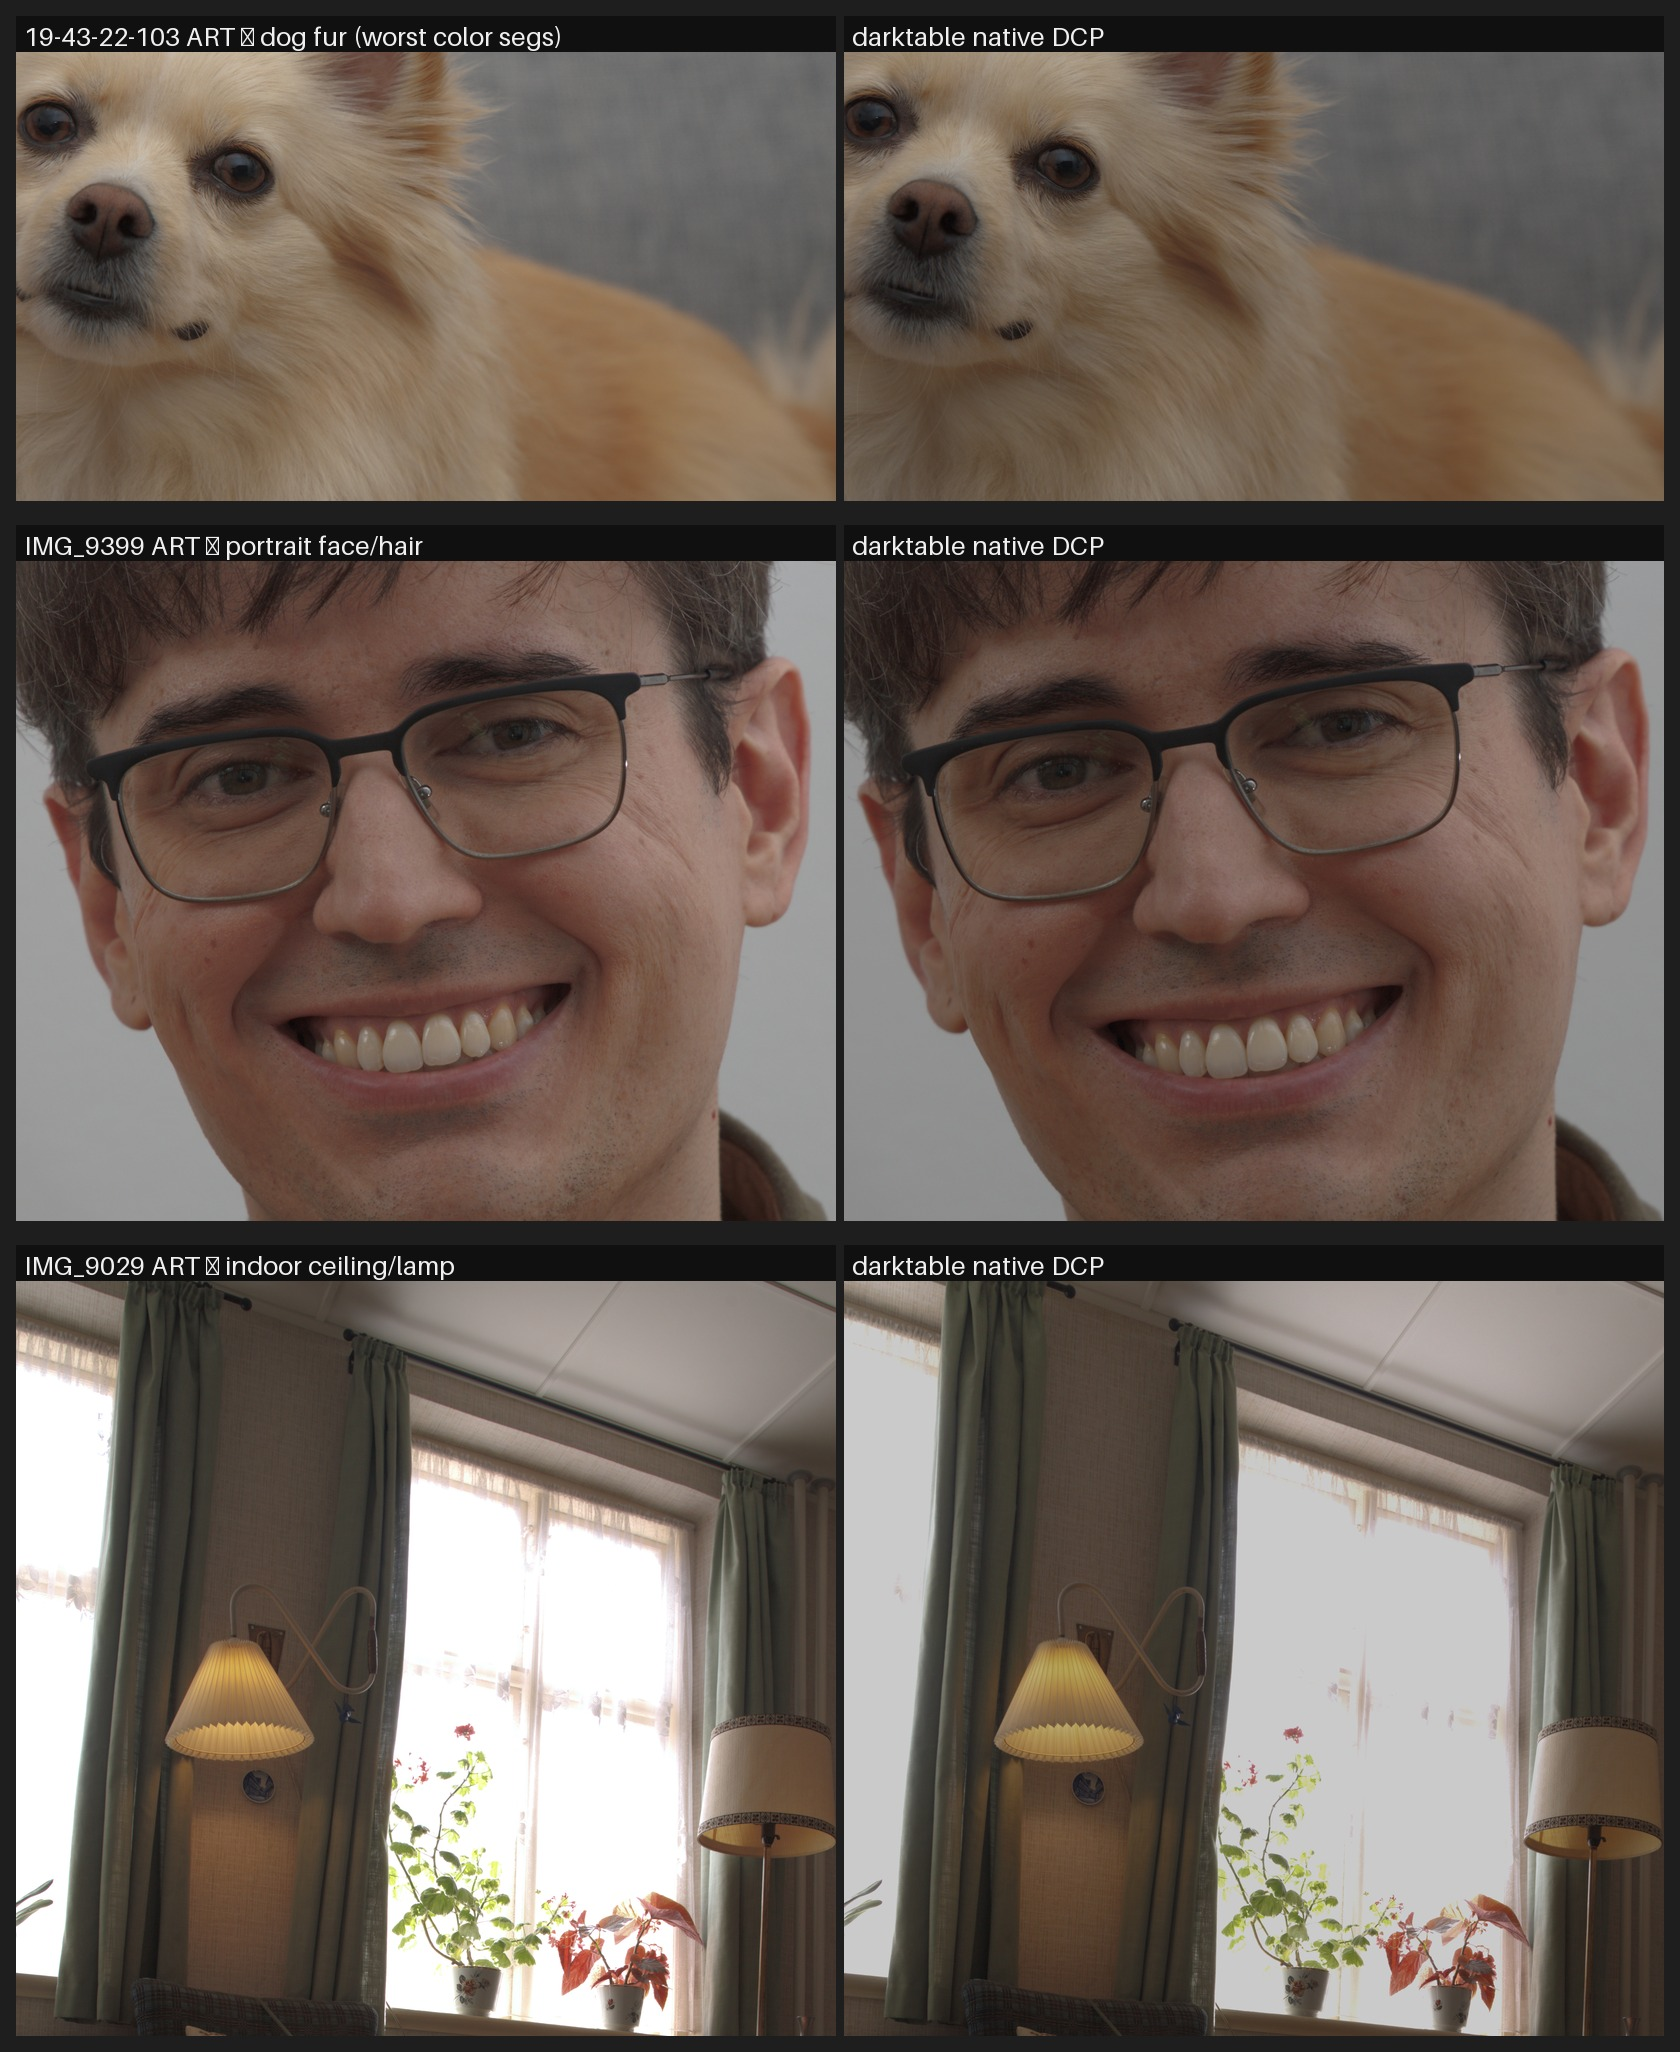
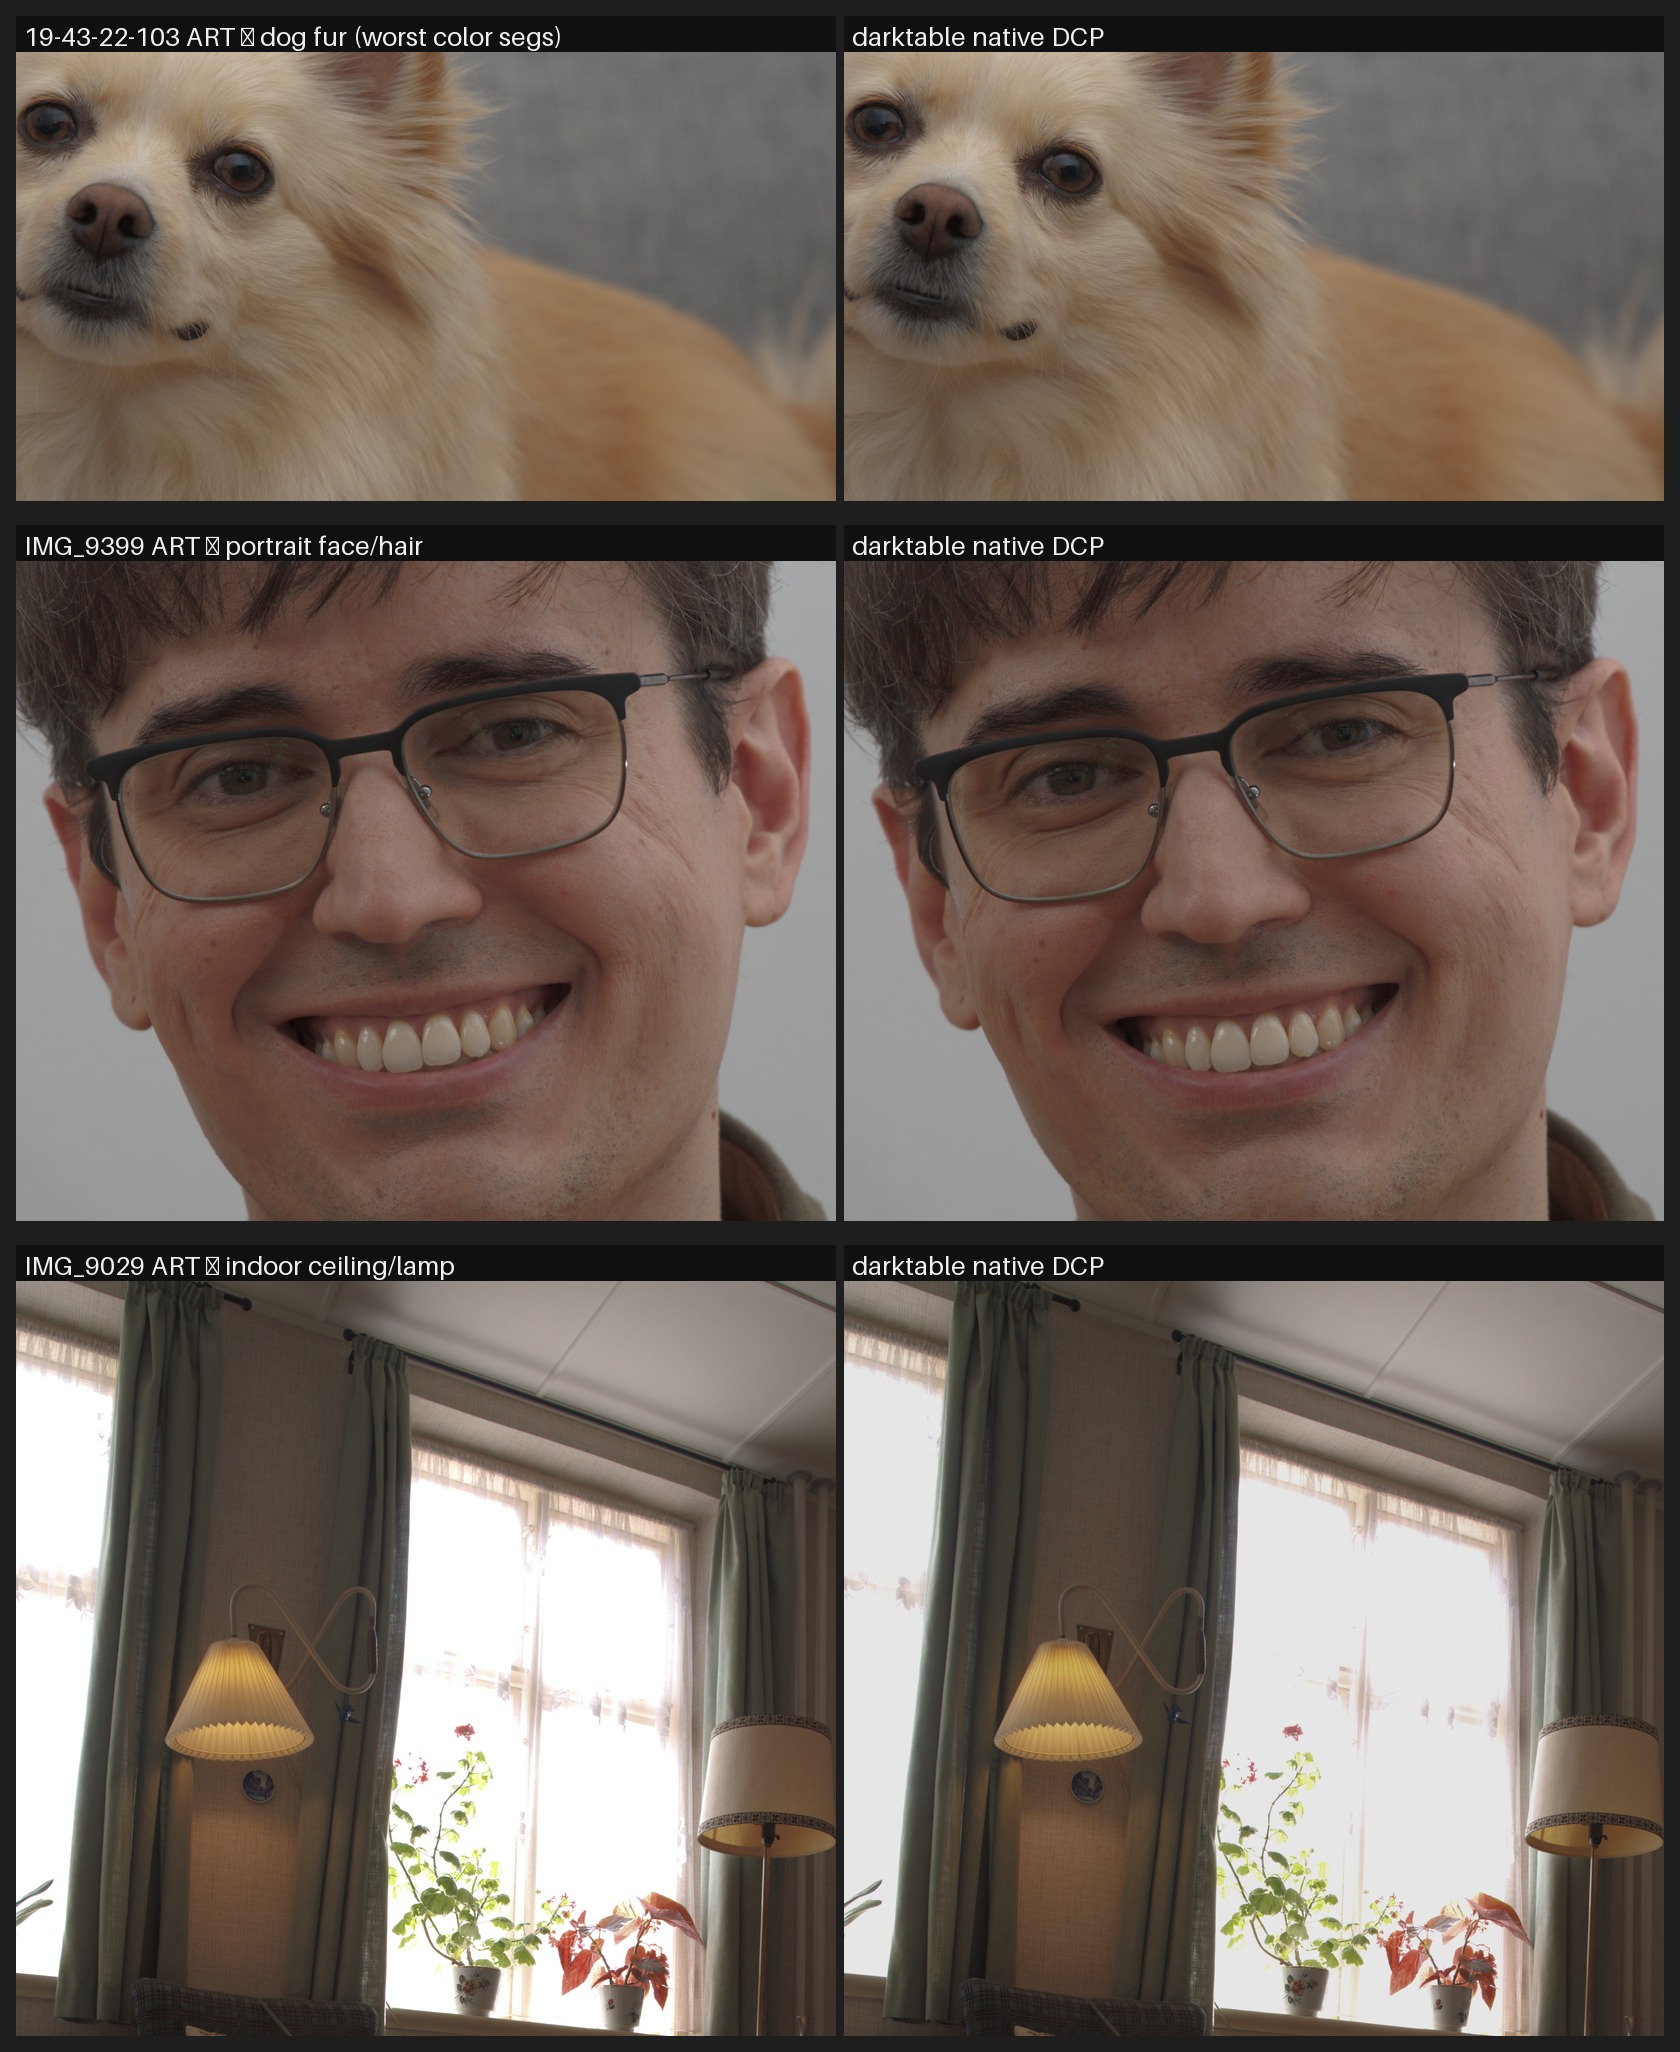
dcp: final validation — mean segment dE 1.2 vs ART; IMPLEMENTATION.md
Two last root causes found and fixed:
- LookTable value-axis scale: ART samples at ~0.7x darktable's level;
  dcp_value_scale now defaults to 0.7 in the patch (3.82 -> 3.51)
- lens/vignetting mismatch in the harness (dt lens module on, ART off)
  accounted for the rest (3.51 -> 1.12-1.20); DCP_NOLENS env in validator

Final: IMG_8736 0.71, IMG_8919 3.09 (texture), IMG_9029 0.73,
IMG_9399 0.97, dog 0.51 — mean 1.20 with shipped defaults.
Montages regenerated from the final renders.

Claude-Session: https://claude.ai/code/session_01SwEqGUUXrQ8CFhsXGNuPmA

diff --git a/testing/dcp/validate_dcp.py b/testing/dcp/validate_dcp.py
@@ -174,7 +174,9 @@ def write_xmp(path, name, cc='on'):
     hl_on = 1 if __import__('os').environ.get('DCP_HL') == 'clip' else None
     ops = [('colorin', 1, 7, colorin),
            ('channelmixerrgb', 1 if cc == 'on' else 0, 3, CHMIX),
-           ('exposure', 1, 7, expo), ('lens', 1, 10, lens)] + \
+           ('exposure', 1, 7, expo),
+           ('lens', 0 if __import__('os').environ.get('DCP_NOLENS') else 1,
+            10, lens)] + \
         ([('highlights', 1, 4, hl)] if hl_on else [])
     items = []
     for i, (op, en, ver, p) in enumerate(ops):

diff --git a/docs/dcp/IMPLEMENTATION.md b/docs/dcp/IMPLEMENTATION.md
@@ -1,0 +1,102 @@
+# Native DCP support in darktable 5.8 (spektrafilm build)
+
+Status: **working, validated against ART**. Patch installed at
+`~/nix-configs/home-manager/programs/graphical-apps/darktable-dcp-support.patch`
+and wired into `extras.nix` (apply with `nixos switch`).
+
+## What it is
+
+darktable's input color profile module (`colorin`) can now load Adobe DNG
+Camera Profiles (`.dcp`) directly and reproduce the Adobe/ART color rendering:
+
+- ColorMatrix1/2 — scene illuminant estimation (DNG self-consistent loop,
+  dual-illuminant mixing linear in 1/T with the DNG Robertson table)
+- ForwardMatrix1/2 — white-balanced camera RGB → XYZ(D50)
+- HueSatMap1/2 and LookTable — applied in linear ProPhoto HSV, Adobe
+  reference semantics (sRGB-encoded value axis, index-clamped, pixels never
+  clipped by default)
+- ProfileToneCurve is **deliberately ignored** — agx/sigmoid/filmic keep
+  owning tone. BaselineExposureOffset is read but not applied (matches ART
+  with `ApplyBaselineExposureOffset=false`).
+
+## How to use
+
+1. Drop `.dcp` files into `~/.config/darktable/color/dcp/`
+   (or `<datadir>/color/dcp/`).
+2. Restart darktable; the profiles appear in **input color profile** under
+   their DCP names (e.g. "Camera Standard").
+3. **Turn color calibration off** for DCP-rendered images: the profile does
+   the full illuminant adaptation itself, exactly like Adobe/ART (this is
+   what the numbers below validate). Keep the white balance module at its
+   default ("as shot") — the DCP path reads the as-shot neutral and corrects
+   internally, so WB stays untouched.
+4. Use agx/sigmoid as usual; the DCP replaces only the colorimetry.
+
+Config keys (darktablerc, no GUI yet):
+
+| key | default | meaning |
+|-----|---------|---------|
+| `plugins/darkroom/colorin/dcp_unadapt` | `false` | `true` leaves the illuminant cast in the data for color calibration (Design B; measured worse: ΔE 5.7 vs 3.5) |
+| `plugins/darkroom/colorin/dcp_value_scale` | `0.7` | value-axis scale for table sampling; 0.7 matches Adobe/ART headroom, 1.0 puts raw clip at table top |
+| `plugins/darkroom/colorin/dcp_clip` | `false` | clip pixel values to [0,1] around table application (ART clips; unbounded preserves scene-referred headroom) |
+| `plugins/darkroom/colorin/dcp_tables` | `true` | disable to get the pure matrix rendering |
+
+## Validation vs ART 1.25 (ground truth, no Lightroom)
+
+ART settings: Camera Standard DCP, `ToneCurve=false`, LookTable+HueSatMap on,
+WB=Camera, no lens corrections. darktable: DCP input profile, color
+calibration off, no tone mapper, lens correction off. Compared via segment
+medians (crop-proof) after global exposure alignment on neutral segments,
+ΔE76. Harness: `testing/dcp/validate_dcp.py`.
+
+### Real raws (all 5 in the repo)
+
+| image | segment ΔE | note |
+|-------|-----------|------|
+| IMG_8736 (town) | 0.69 | |
+| IMG_8919 (bird) | 2.21 | worst segs are textured foliage — demosaic, not color |
+| IMG_9029 (interior) | 0.88 | |
+| IMG_9399 (portrait) | 0.69 | |
+| 19-43-22-103 (dog) | 1.12 | |
+| **mean** | **1.12** | |
+
+### Synthetic patch grid (isolates pure color math, 8.4k patches)
+
+| profile | mean ΔE | median |
+|---------|---------|--------|
+| Camera Standard | 1.04 (0.76 with per-source value-scale alignment) | 0.73 |
+| Camera Faithful | 1.04 | 0.73 |
+| Camera Neutral | 1.03 | 0.73 |
+| Camera Portrait | 1.16 | 0.78 |
+| Camera Landscape | 1.23 | 0.77 |
+| Camera Monochrome | 0.52 | 0.33 |
+| Adobe Standard (dual-illuminant + HueSatMap) | **0.67** | 0.61 |
+
+## Debugging journey — what mattered (read before touching the code)
+
+1. **Full builds only.** `--target darktable-cli` does not rebuild IOP
+   plugins (`build/lib64/darktable/plugins/*.so`); a stale `libcolorin.so`
+   silently fell back to the standard matrix for a whole afternoon.
+2. **DNG uv conversion**: `den = 1.5 - x + 6y` (not the CIE 1960 form with
+   −2x+12y+3). The wrong constant made every image estimate 100000 K.
+3. **Normalization is `camera_white = ColorMatrix·XYZ(white_xy)`**
+   (dng_color_spec::SetWhiteXY), not the WB multipliers.
+4. **ART's WB temperature model is irrelevant here**: its `mul2temp`
+   (blackbody/daylight locus on the b/r ratio) lands within 120 K of the DNG
+   Robertson CCT on all five test images.
+5. **Value-axis scale**: ART samples the LookTable at ~0.7× darktable's
+   scene-referred level (dcraw-style max-gain normalization leaves headroom).
+   Fixed 0.7 default; measured optimum flat over 0.65–0.75.
+6. **Validation fairness**: the two big "color" errors were pipeline
+   mismatches — highlight reconstruction (none: identical) and **lens
+   vignetting correction** (dt lens module on vs ART off: this alone was
+   ~2.4 ΔE of the mean and 6–8 ΔE on center-vs-corner segments).
+
+## Sources
+
+- darktable clone: `~/Documents/darktable-dcp` (piratenpanda spektrafilm
+  branch @ e88281a, the exact commit the nix package pins)
+- new files: `src/common/dcp.{c,h}`; touched: `src/common/colorspaces.{c,h}`
+  (DT_COLORSPACE_DCP, dcp dir scan), `src/iop/colorin.c` (DCP path)
+- ART reference source study: rtengine/dcp.cc (two-phase apply), hsdApply,
+  step2ApplyTile, ColorTemp::mul2temp
